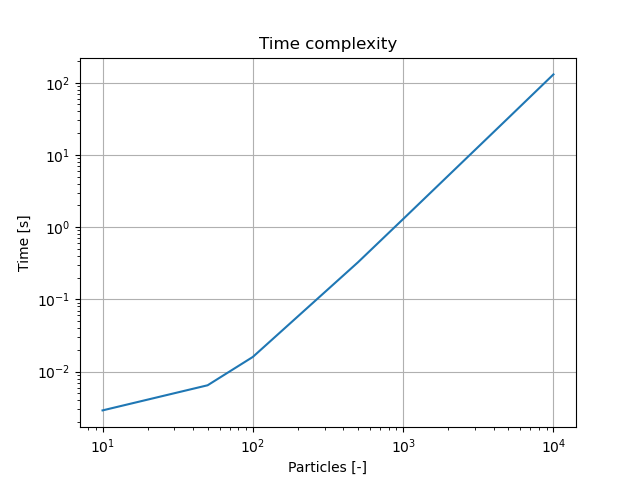
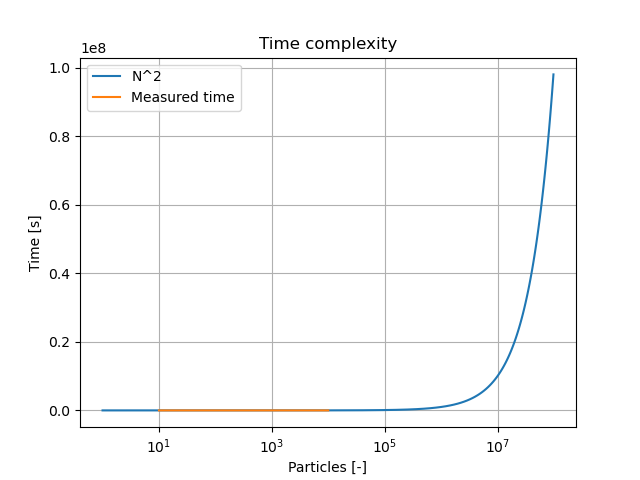
A3, plotting

diff --git a/A3/plotting.py b/A3/plotting.py
@@ -5,9 +5,9 @@ N_2 = [e**2 for e in range(1, 10000, 100)]
 time = [0.002901, 0.006463, 0.015964, 0.325657, 1.295745, 32.431196, 130.429485]
 
 
-#plt.loglog(N_2, N_2)
-plt.loglog(N, time)
-#plt.legend(["N^2", "Measured time"])
+plt.semilogx(N_2, N_2)
+plt.semilogx(N, time)
+plt.legend(["N^2", "Measured time"])
 plt.title("Time complexity")
 plt.xlabel("Particles [-]")
 plt.ylabel("Time [s]")
